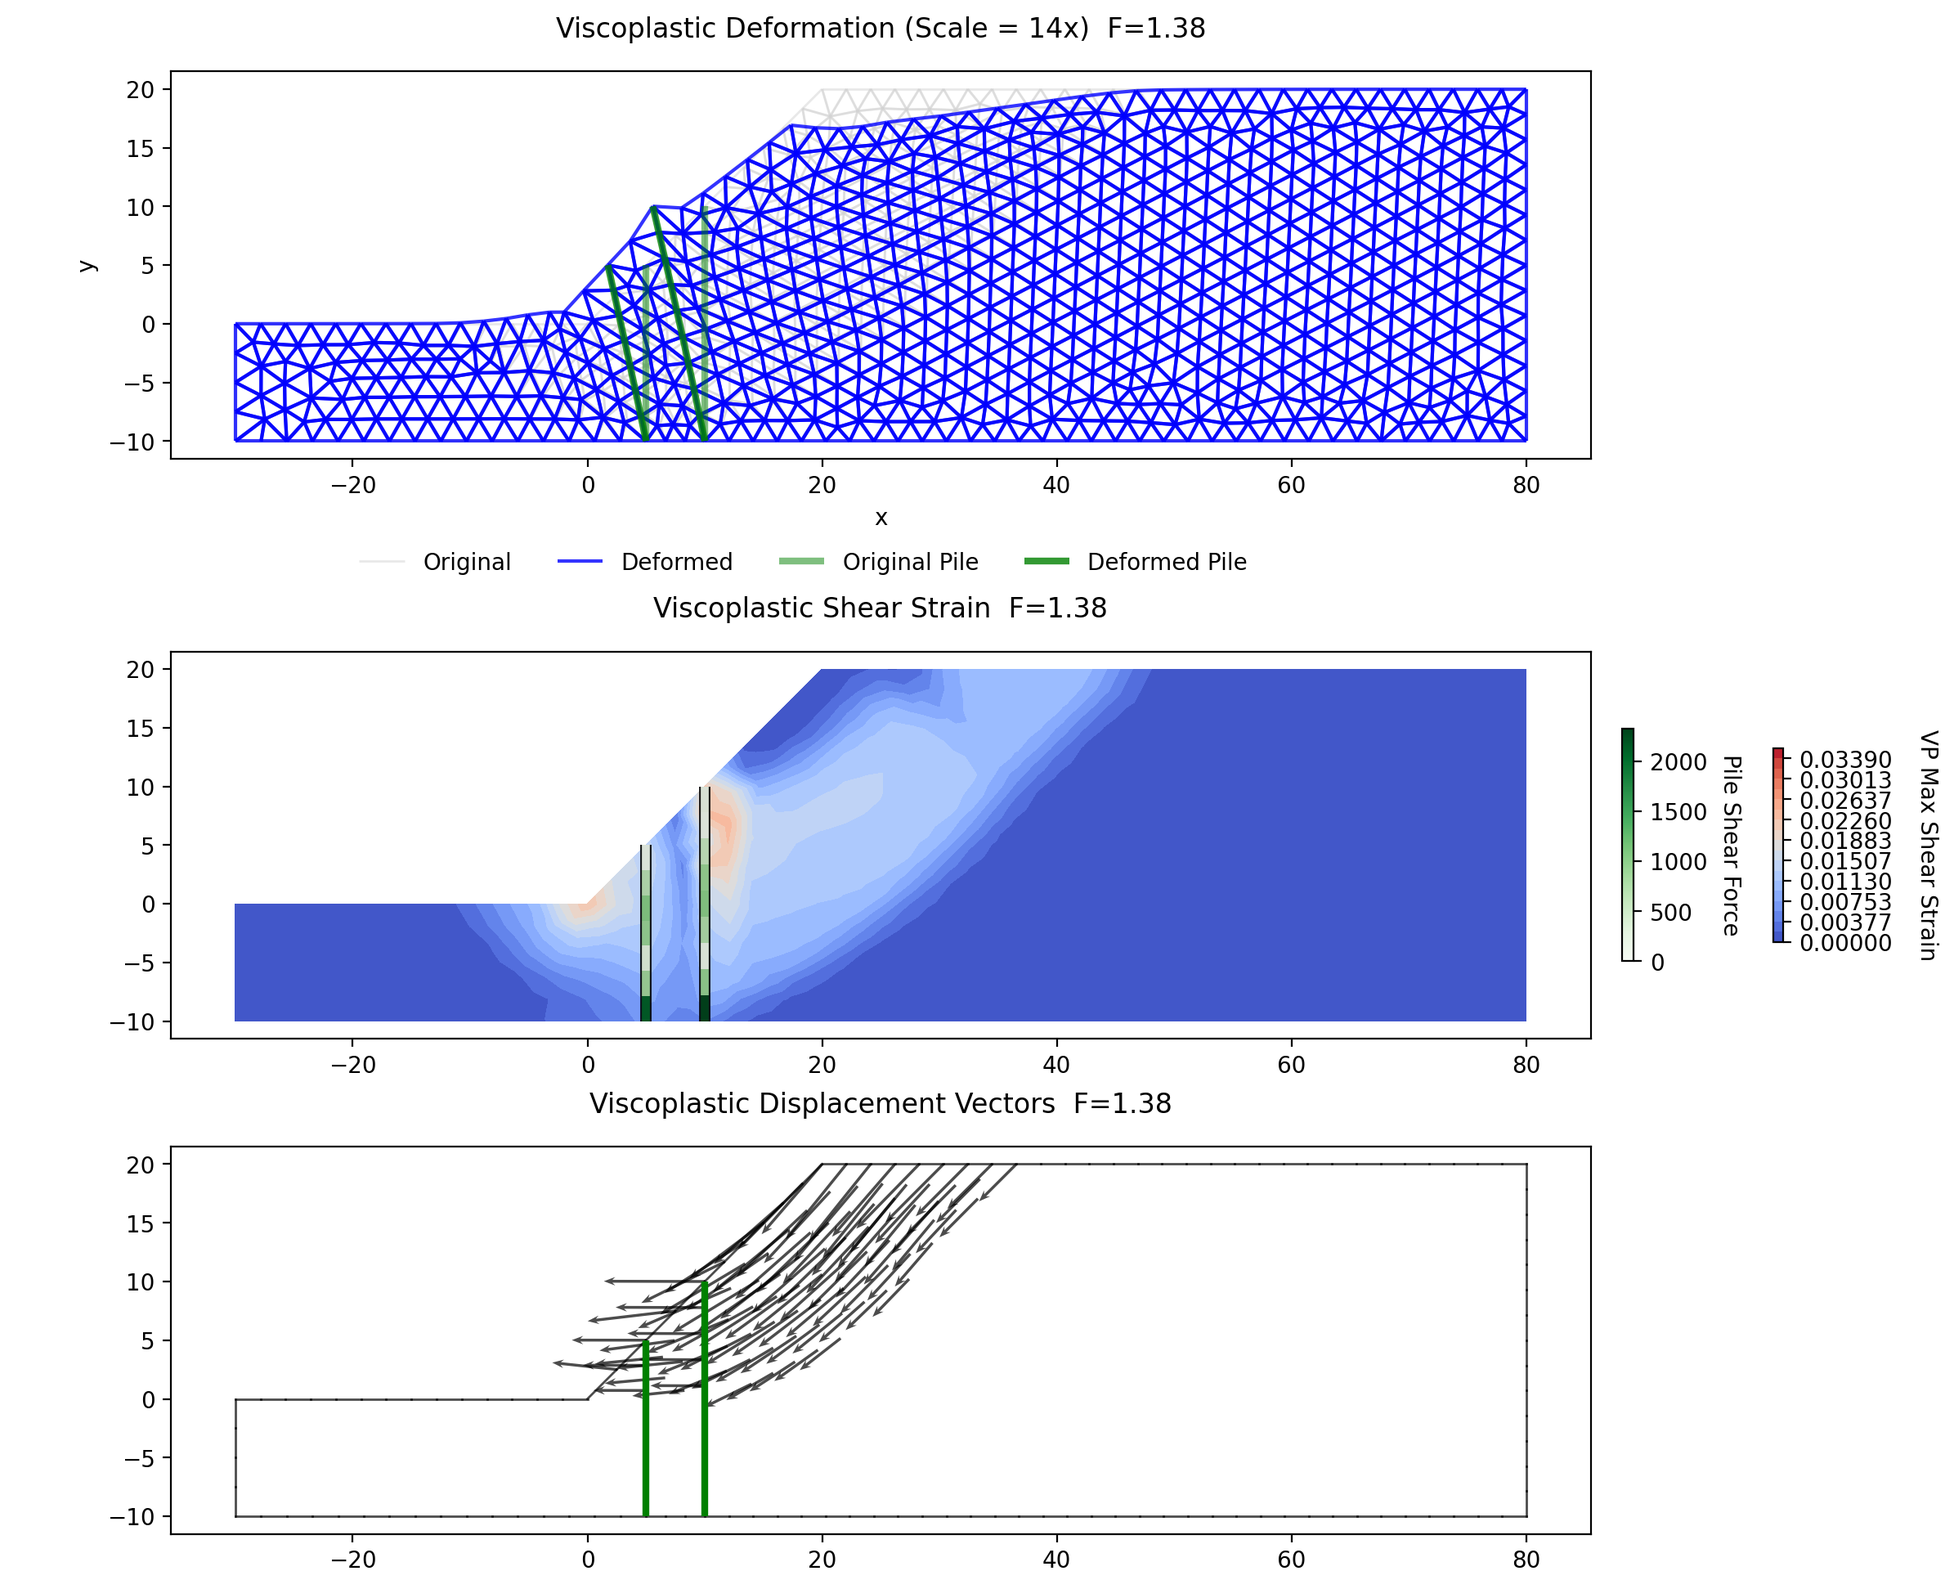
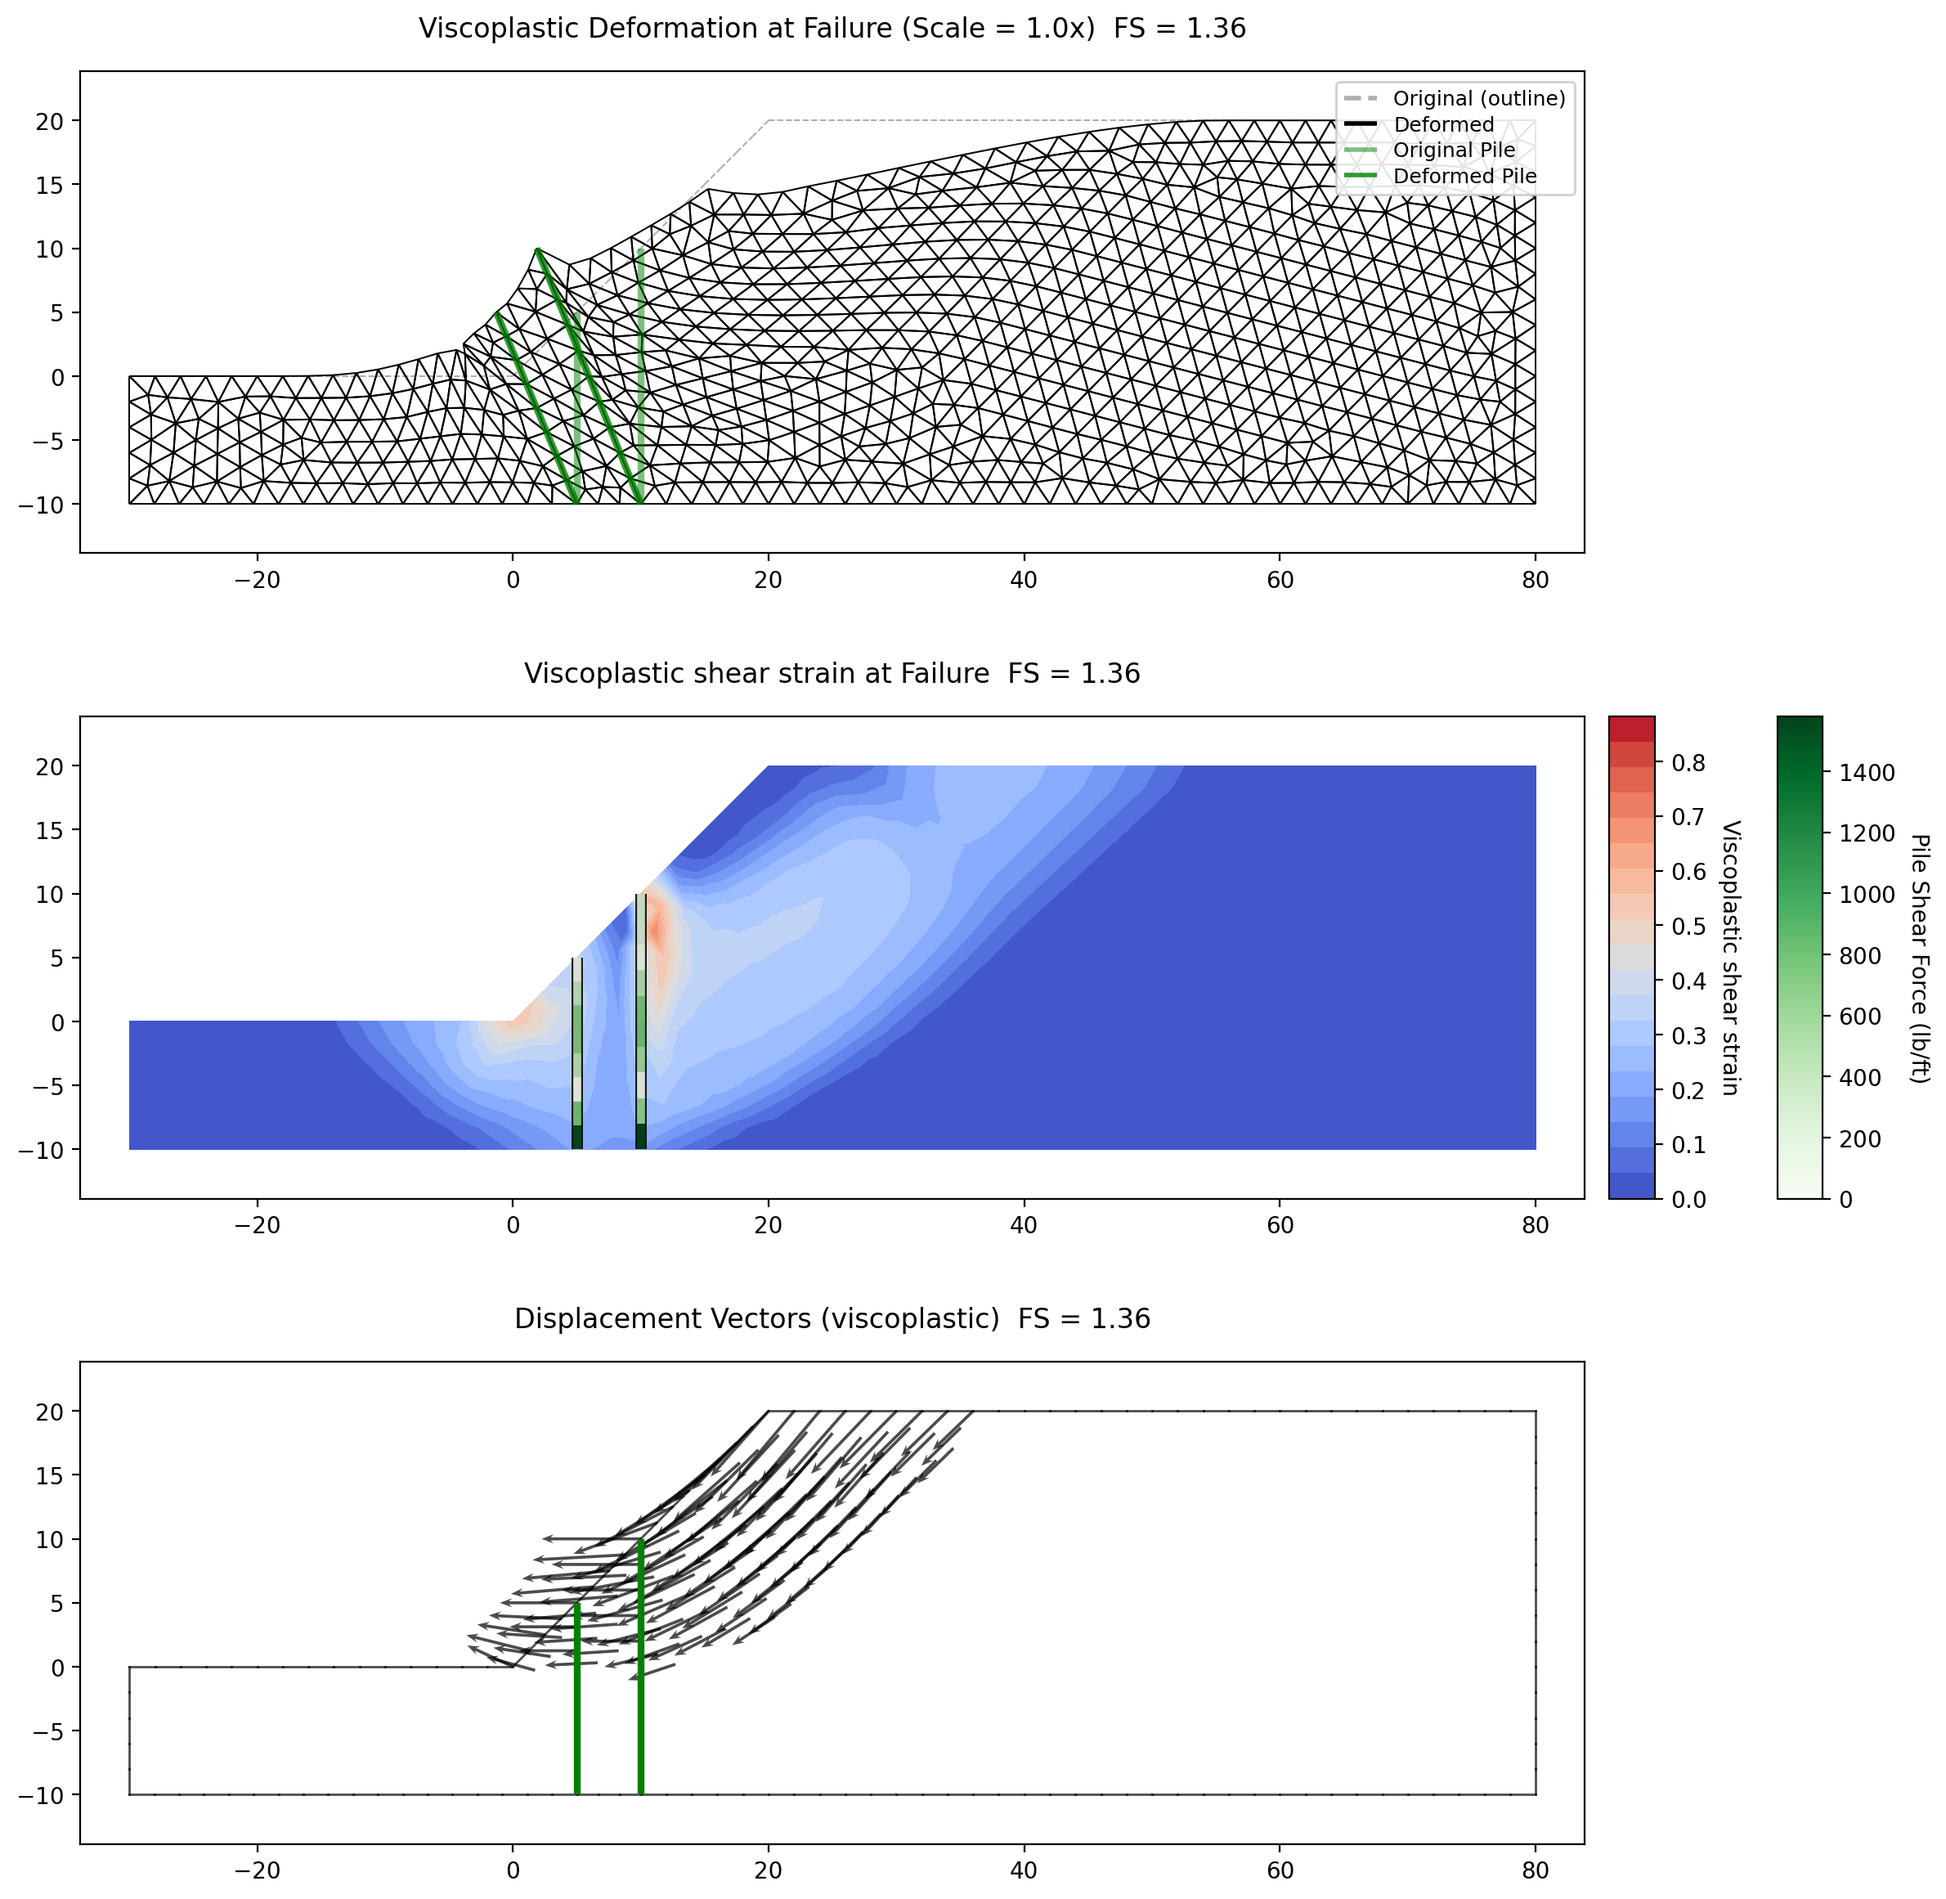
docs(fem): the pile sample's figures and numbers are the run committed beside it, and a producer can redraw them
make_fem_docs_sidecars.py rebuilt this sample's companions from the page's own
fem_ssrm tag, and the page stayed behind: its three figures were hand grabs from
a Studio session with nothing able to redraw them. The mesh panel announced the
1,350 elements of that session's mesh where the tag builds 1,521, and the results
panels were titled at a trial factor of 1.38 that belongs to no run the page
reports. The member numbers under them came from the same session.

tools/make_fem_sample_figures.py draws the three from the shipped sidecars —
nothing is solved — the way the verification figures and the report draw theirs:
the last converged field passed with the at-failure snapshot beside it, so the
panels trace the developed mechanism. The inputs panel takes the report's own
frame="content", the equal-aspect framing that shrinks the box to the section;
the default would put 30 ft of empty ground above and below a slope 30 ft tall.
piles_fem_results_no_pile.png is left alone and the reason is recorded in the
script: it is the same slope with the piles removed, a model that is not
committed and ships no solved run.

The prose says which field every number is read from, because the summary block
and the results figure are read from different ones:

  Pile Summary block (last converged), old -> new
    Pile 1  7 elems, |T| 482.1, |V| 2116.7, |M| 6352.4
         -> 8 elems, |T| 361.0, |V| 1950.5, |M| 6186.0
    Pile 2  9 elems, |T| 1280.6, |V| 2323.6, |M| 7227.6
[…]

diff --git a/tools/make_fem_sample_figures.py b/tools/make_fem_sample_figures.py
@@ -1,0 +1,144 @@
+# Copyright 2025 Norman L. Jones
+#
+# Licensed under the Apache License, Version 2.0 (the "License");
+# you may not use this file except in compliance with the License.
+# You may obtain a copy of the License at
+#
+#     http://www.apache.org/licenses/LICENSE-2.0
+#
+# Unless required by applicable law or agreed to in writing, software
+# distributed under the License is distributed on an "AS IS" BASIS,
+# WITHOUT WARRANTIES OR CONDITIONS OF ANY KIND, either express or implied.
+# See the License for the specific language governing permissions and
+# limitations under the License.
+
+"""Redraw the figures on the FEM sample pages from the runs committed beside the
+models.
+
+The Griffiths & Lane figures on the verification pages are redrawn by
+``benchmarks/make_griffiths_figures.py`` and the sample-page inputs panels for
+two benchmark models by ``benchmarks/make_benchmark_figures.py``. The pile
+sample's figures on ``docs/fem/samples.md`` were covered by neither: they were
+grabbed by hand from a Studio session and nothing could redraw them, so when
+``tools/make_fem_docs_sidecars.py`` rebuilt that sample's companions from the
+page's own ``fem_ssrm`` tag the pictures stayed behind. The mesh panel still
+announced the 1,350 elements of the session's mesh where the tag builds 1,521,
+and the results panels were titled at a trial factor of 1.38 that belongs to no
+run the page reports.
+
+Nothing is solved here. Each figure is drawn from the sidecars
+``make_fem_docs_sidecars.py`` writes, so this script and the page describe one
+run, and a rebuild of the companions is followed by a rebuild of the pictures.
+
+The results panels are drawn the way the verification figures and the report
+draw them: the last converged field is passed with the at-failure snapshot
+beside it, and the panels trace the developed mechanism.
+
+The pile summary both fields produce is printed at the end. The page quotes that
+block, and quoting it from a field is the whole reason the numbers on the page
+have to say which field they came from.
+
+The reinforcement and non-circular samples' figures are still hand grabs with no
+producer; only the pile sample is covered here.
+
+    PYTHONPATH=. python3 tools/make_fem_sample_figures.py
+"""
+import contextlib
+import io
+import os
+import sys
+
+sys.path.insert(0, os.path.dirname(os.path.dirname(os.path.abspath(__file__))))
+
+import matplotlib                                                    # noqa: E402
+matplotlib.use("Agg")
+import matplotlib.pyplot as plt                                      # noqa: E402
+
+from xslope.fem import print_pile_summary                            # noqa: E402
+from xslope.fileio import load_slope_data                            # noqa: E402
+from xslope.plot import plot_inputs                                  # noqa: E402
+from xslope.plot_fem import plot_fem_data, plot_fem_results          # noqa: E402
+from xslope.report import solutions_from_sidecars                    # noqa: E402
+
+ROOT = os.path.dirname(os.path.dirname(os.path.abspath(__file__)))
+FILES = os.path.join(ROOT, "docs", "fem", "files")
+OUT = os.path.join(ROOT, "docs", "fem", "images")
+DPI = 200
+
+#: ``stem -> figure prefix`` for the samples this script draws.
+CASES = {"xslope_piles_fem": "piles_fem"}
+
+#: Figures on the pile sample's section that this script does NOT draw, each with
+#: the reason. ``piles_fem_results_no_pile`` is the same slope with the piles
+#: taken out — a different model, with no input file and no companions committed
+#: for it, so there is nothing here to draw it from.
+NOT_DRAWN = {
+    "piles_fem_results_no_pile": "a model with the piles removed, which is not "
+                                 "committed and ships no solved run",
+}
+
+
+def _save(prefix, kind, note=""):
+    path = os.path.join(OUT, f"{prefix}_{kind}.png")
+    plt.gcf().savefig(path, dpi=DPI, bbox_inches="tight")
+    plt.close("all")
+    print(f"  wrote {os.path.relpath(path, ROOT)}{note}")
+
+
+def draw(stem, prefix):
+    path = os.path.join(FILES, f"{stem}.xlsx")
+    with contextlib.redirect_stdout(io.StringIO()):
+        slope_data = load_slope_data(path)
+        bundle = solutions_from_sidecars(path, slope_data, None).get("fem")
+    if not bundle:
+        raise RuntimeError(f"{stem}: no solved run beside the model — run "
+                           f"tools/make_fem_docs_sidecars.py first")
+    fem_data, solution = bundle["fem_data"], bundle["solution"]
+    mesh = slope_data.get("mesh") or {}
+
+    print(f"{stem}: FS = {bundle.get('FS'):.4f}, "
+          f"{len(mesh.get('nodes', []))} nodes, "
+          f"{len(mesh.get('elements', []))} elements")
+
+    # frame="content" — equal aspect with the axes BOX shrunk to the section,
+    # which is what the report's own model figure uses. The default "fill"
+    # framing keeps the box and expands the data limits to match it, and on a
+    # section 110 ft wide and 30 ft tall that puts 30 ft of empty ground above
+    # and below the slope. The mesh underlay is left on: it is what the page's
+    # figure has always shown, and the mesh figure of its own is much further
+    # down the page.
+    with contextlib.redirect_stdout(io.StringIO()):
+        plot_inputs(slope_data, mode="fem", frame="content")
+    _save(prefix, "inputs")
+
+    with contextlib.redirect_stdout(io.StringIO()):
+        plot_fem_data(fem_data)
+    _save(prefix, "mesh", f"  ({len(mesh.get('elements', []))} elements)")
+
+    with contextlib.redirect_stdout(io.StringIO()):
+        plot_fem_results(fem_data, solution, fs=bundle.get("FS"),
+                         failure_solution=bundle.get("failure_solution"))
+    _save(prefix, "results")
+
+    for name, why in NOT_DRAWN.items():
+        if name.startswith(prefix):
+            print(f"  {name}.png not drawn: {why}")
+
+    # What the page's summary block reads, from each field it could be read at.
+    for label, field in (("last converged", solution),
+                         ("at failure", bundle.get("failure_solution"))):
+        if field is None:
+            continue
+        print(f"\n--- print_pile_summary, {label} ---")
+        print_pile_summary(fem_data, field)
+
+
+def main():
+    os.makedirs(OUT, exist_ok=True)
+    for stem, prefix in CASES.items():
+        draw(stem, prefix)
+    return 0
+
+
+if __name__ == "__main__":
+    sys.exit(main())

diff --git a/docs/fem/samples.md b/docs/fem/samples.md
@@ -137,18 +137,23 @@ SSRM results with two rows of piles (**FS = 1.36**). The pile elements are color
 
 ![piles_fem_results.png](images/piles_fem_results.png){width=1000}
 
-Pile summary:
+Pile summary. `print_pile_summary` reports whichever field it is given; this is the last converged trial:
 
 ```text
 === Pile Summary ===
 Pile  Elems   Max |T|   Max |V|   Max |M|     V_cap     M_cap  Yielded  Status
 --------------------------------------------------------------------------------
-   1      7     482.1    2116.7    6352.4    7666.7   10000.0    0/7  OK
-   2      9    1280.6    2323.6    7227.6    7666.7   10000.0    0/9  OK
+   1      8     361.0    1950.5    6186.0    7666.7   10000.0    0/8  OK
+   2     10    1142.4    1940.2    6318.6    7666.7   10000.0    0/10  OK
 --------------------------------------------------------------------------------
 ```
 
-The two rows of piles increase the factor of safety from 1.18 to 1.36 — a 15% improvement. The maximum bending moment (7228 per unit width in Pile 2) reaches about 72% of the moment capacity ($M_{\text{cap}}/S$ = 10,000), and the maximum shear about 30% of $V_{\text{cap}}/S$, so the structural capacity does not govern for this problem. The soil's ability to transfer lateral load to the piles is the limiting factor, not the pile strength.
+The two rows of piles increase the factor of safety from 1.18 to 1.36 — a 15% improvement. In the last converged
+trial the largest bending moment is 6,319 per unit width (Pile 2), about 63% of the moment capacity
+($M_{\text{cap}}/S$ = 10,000), and the largest shear 1,951 (Pile 1), about 25% of $V_{\text{cap}}/S$ = 7,667. In
+the developed mechanism at failure — the state the results figure above draws — both are smaller: 4,429 (44%) and
+1,580 (21%). The structural capacity does not govern for this problem in either state. The soil's ability to
+transfer lateral load to the piles is the limiting factor, not the pile strength.
 
 This is typical behavior for piles in relatively weak soil — the pile is much stiffer than the surrounding soil, and increasing the pile diameter or stiffness beyond a certain point produces diminishing returns. The 2D plane-strain model also does not capture the three-dimensional soil arching between piles that the Ito & Matsui theory accounts for in LEM, which can make the FEM result more conservative than the LEM result.
 
